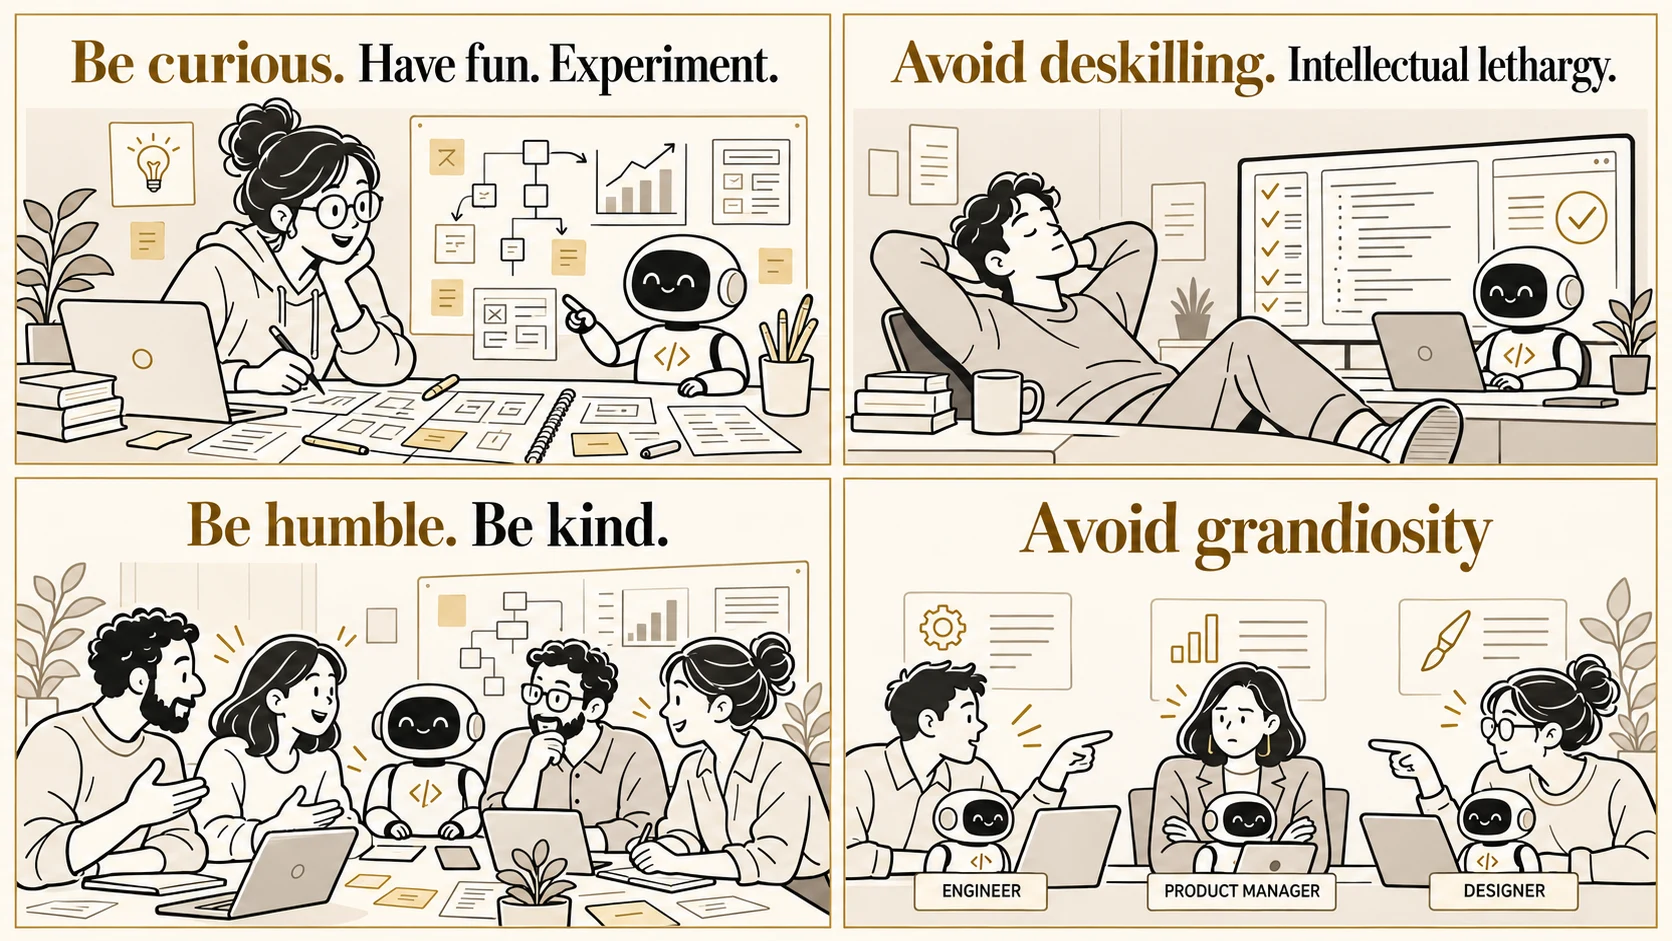
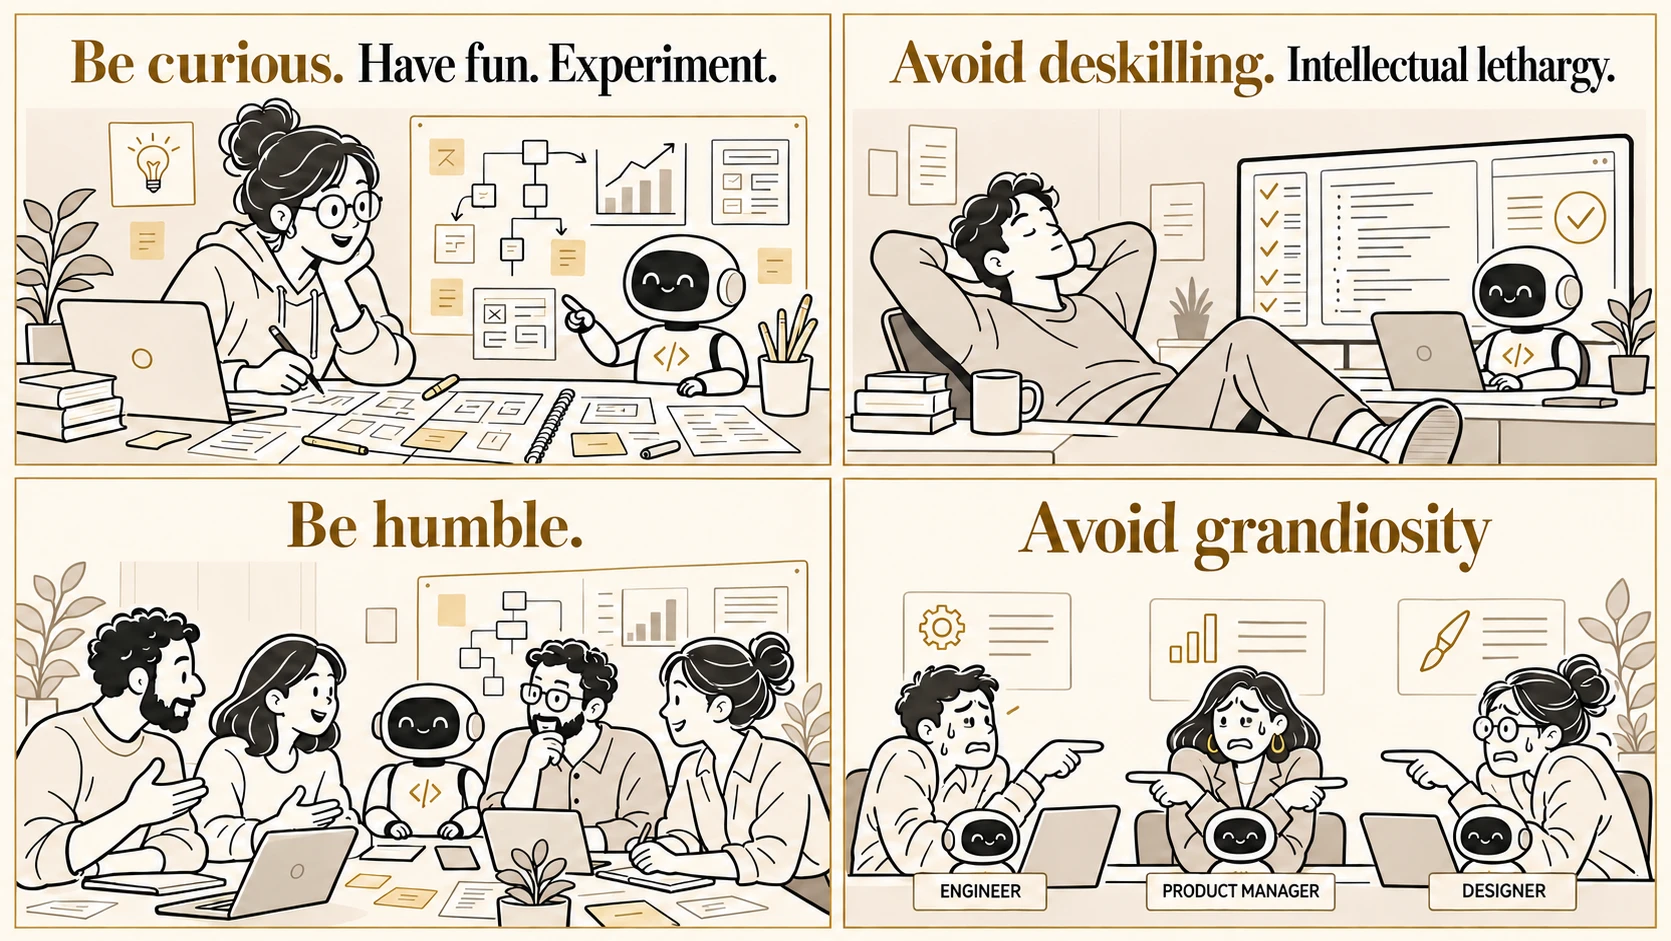
style(deck): revise final rule title and illustration

diff --git a/media/README.md b/media/README.md
@@ -293,7 +293,7 @@ backgrounds.
 ## curious-humble.webp
 
 ```text
-Preserve a 2×2 illustration comparing helpful and unhelpful working habits. Top left "Be curious": engaged developer sketching prototypes with a friendly line-drawn robot. Top right "Avoid deskilling": disengaged developer reclining while robot runs unattended at screen. Bottom left "Be humble. Be kind.": diverse team listens and discusses around a table with shared notes. Bottom right "Avoid grandiosity": engineer, product manager, and designer each pointing at their own assistant and dismissing one another. Use refined pen-and-ink editorial figures, expressive restrained faces, ivory and stone panels with fine gold divider rules; no cartoon emoji or neon. Small text labels in bottom-right "Engineer", "Product manager", "Designer". Avoid racial stereotypes; convey disagreement calmly. No speech bubbles or extra paragraphs.
+Create a 2×2 illustration comparing helpful and unhelpful working habits. Top left "Be curious": an engaged developer sketches prototypes with a friendly line-drawn robot. Top right "Avoid deskilling": a disengaged developer reclines while a robot runs unattended at the screen. Bottom left "Be humble.": colleagues listen and discuss shared notes around a table. Bottom right "Avoid grandiosity": an engineer, product manager, and designer form a clear triangle, each pointing a finger at the other two in a mutual standoff. Give all three flustered, uneasy expressions so their stalemate is immediately clear. Keep it nonviolent: no weapons, threats, or physical contact. Label them "Engineer", "Product manager", and "Designer". Use refined pen-and-ink editorial figures, restrained expressions, an ivory canvas, warm-stone panels, near-black linework, and fine gold dividers. Use very few emphasis marks; avoid whisker-like rays. No cartoon emoji, speech bubbles, or extra paragraphs.
 ```
 
 ## one-command-setup.webp
@@ -439,12 +439,6 @@ Edit this existing presentation illustration only for alignment and column headi
 For EACH of the three bordered columns, align all contents to that column's horizontal centre: product name, feature subtitle, illustration scene as a whole, caption, and command/example box. In the centre column, centre "Create a matching illustration" within its box; remove the small decorative sparkle in that box if it interferes with centred text.
 Reduce all three product-name titles and all three feature subtitles to about 85 percent of their present font sizes. Use one consistent product-name size across all columns, and one consistent feature-subtitle size across all columns. Keep their elegant serif styles and upright versus italic distinction. Put all product names on the same baseline and all feature subtitles on the same baseline; "GitHub Copilot CLI" and "Built-in image generation" should fit comfortably on one line at the smaller size. Maintain generous side margins and consistent spacing. Align the three captions to one baseline and the three command/example boxes to one baseline.
 Keep the top main title exactly "Example affordances that users miss" at its current size and position. Preserve all wording verbatim: "Claude Code CLI", "Voice dictation", "Speak your prompt", "/voice"; "Codex", "Built-in image generation", "Generate and edit visual assets", "Create a matching illustration"; "GitHub Copilot CLI", "Computer use", "Work in GUI-only desktop apps", "/computer on". Preserve the three illustration narratives, friendly robots and humans, ellipsis outside the panels, unboxed footer caption, canvas dimensions, ivory/stone palette, and fine gold borders. Do not add availability caveats, a Desktop app label, logos, dates, or new text. Change only horizontal alignment, consistent vertical alignment, and the requested column heading sizes.
-```
-
-### curious-humble
-
-```text
-Use case: precise-object-edit. Edit only the lower-right panel headline of this presentation illustration. Replace BOTH existing headline lines ("Delusions of grandeur." and the smaller subtitle beneath it) with a SINGLE elegant line reading exactly "Avoid grandiosity" centred above the three colleagues. Remove the subtitle completely; leave clean ivory space. Keep all other text, characters, linework, panels, typography, colours, canvas dimensions, and composition unchanged. No extra text.
 ```
 
 ## Integration checks
